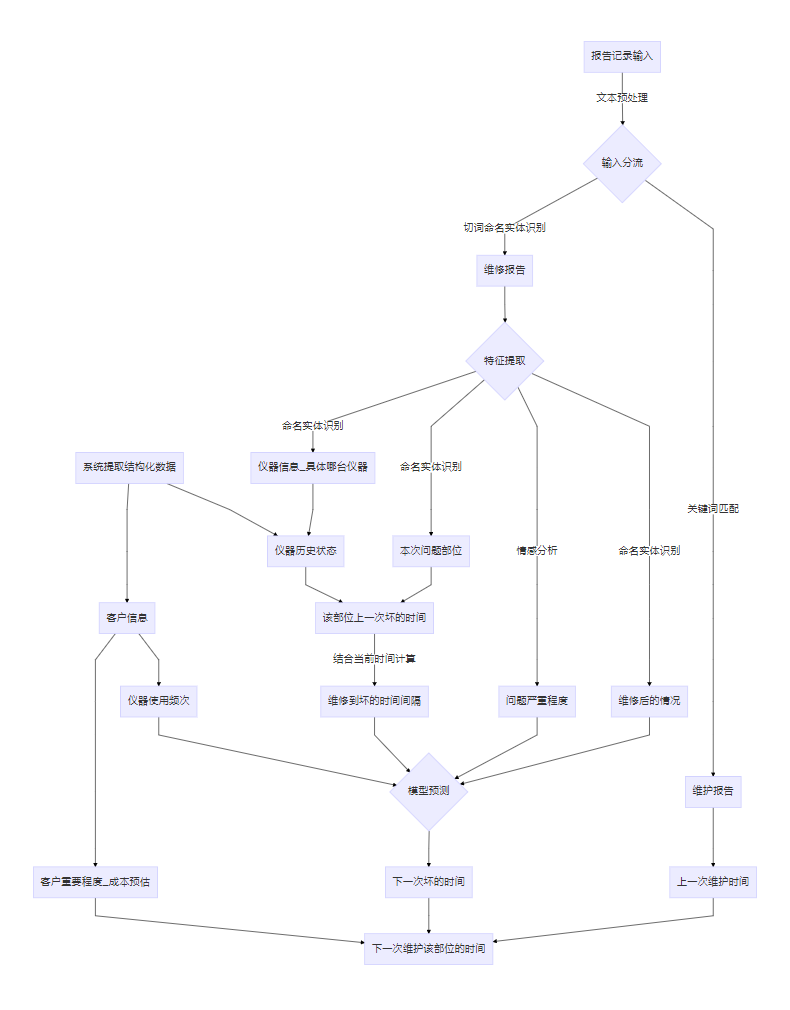
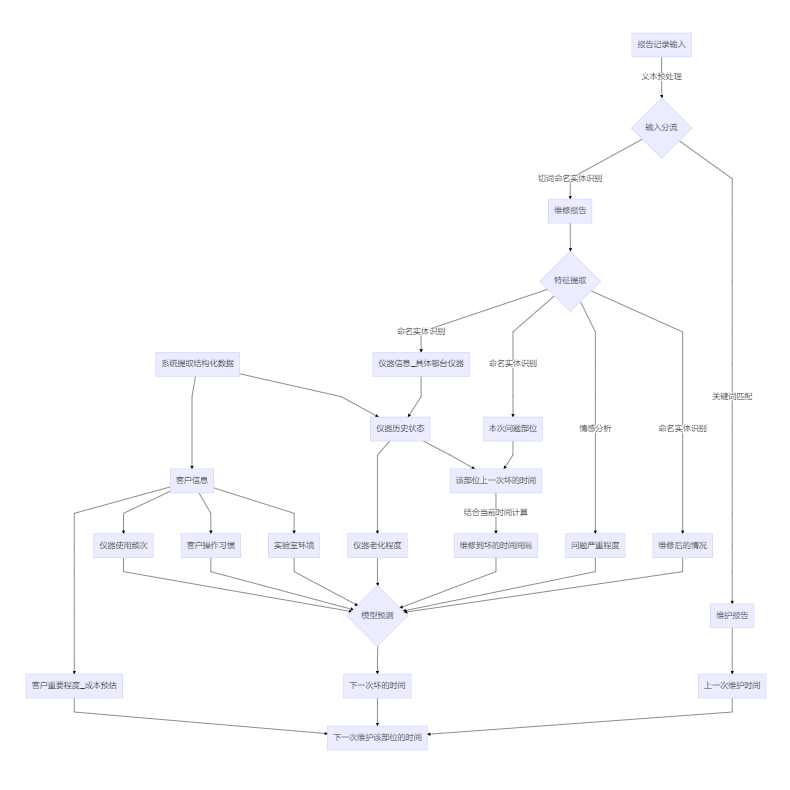
update

diff --git a/projects/Biosan-service-upgrade-2019/src/readme.md b/projects/Biosan-service-upgrade-2019/src/readme.md
@@ -176,6 +176,8 @@ graph TD
 A0 --> E1[客户信息]
 E1 --> E12[客户重要程度_成本预估]
 E1 --> E11[仪器使用频次]
+E1 --> E14[客户操作习惯]
+E1 --> E15[实验室环境]
 A0[系统提取结构化数据] --> D11[仪器历史状态]
 A[报告记录输入] --> |文本预处理|C{输入分流}
 C --> |切词命名实体识别|B2[维修报告]
@@ -185,11 +187,15 @@ D1 --> D11
 C2 --> |命名实体识别|D2[本次问题部位]
 C2 --> |情感分析|D3[问题严重程度]
 C2 --> |命名实体识别|D4[维修后的情况]
+D11 --> D10[仪器老化程度]
 D11 --> D12[该部位上一次坏的时间]
 D2 --> D12 
 D12 --> |结合当前时间计算|D13[维修到坏的时间间隔]
 D3 --> B3
 D4 --> B3
+D10 --> B3
+E14 --> B3
+E15 --> B3
 B3{模型预测} --> D15[下一次坏的时间]
 E12 --> D14[下一次维护该部位的时间]
 D13 --> B3
